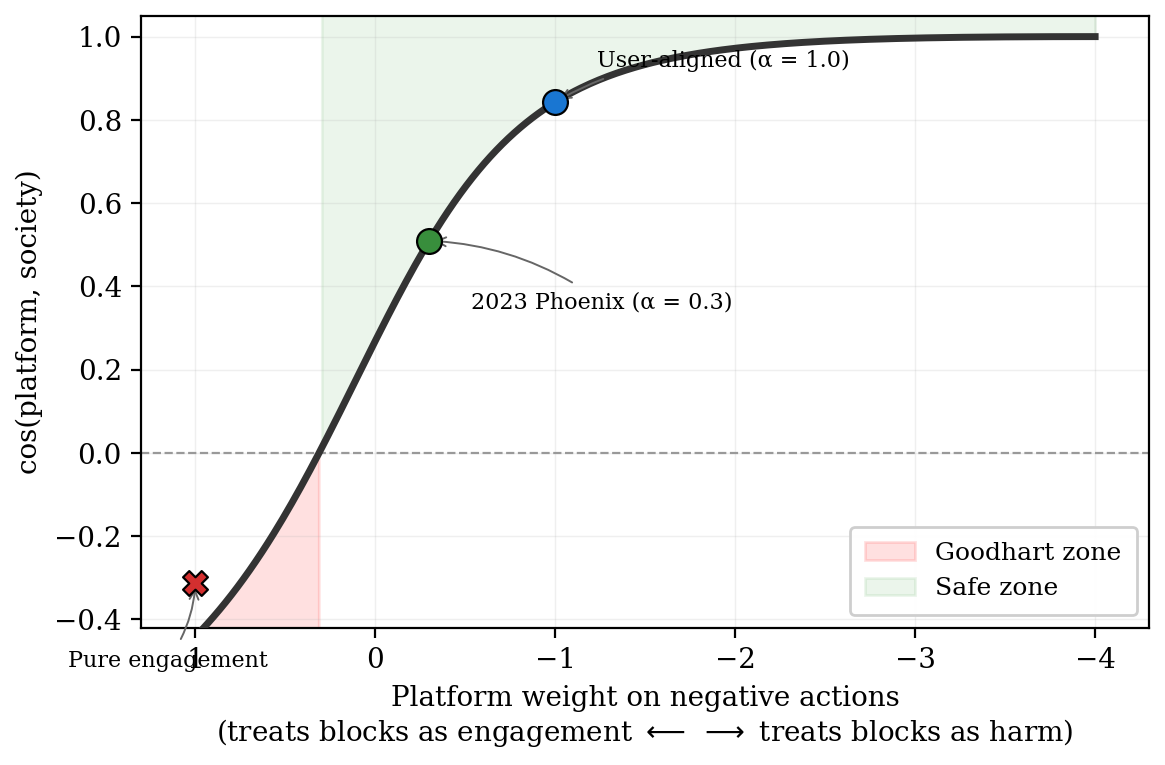
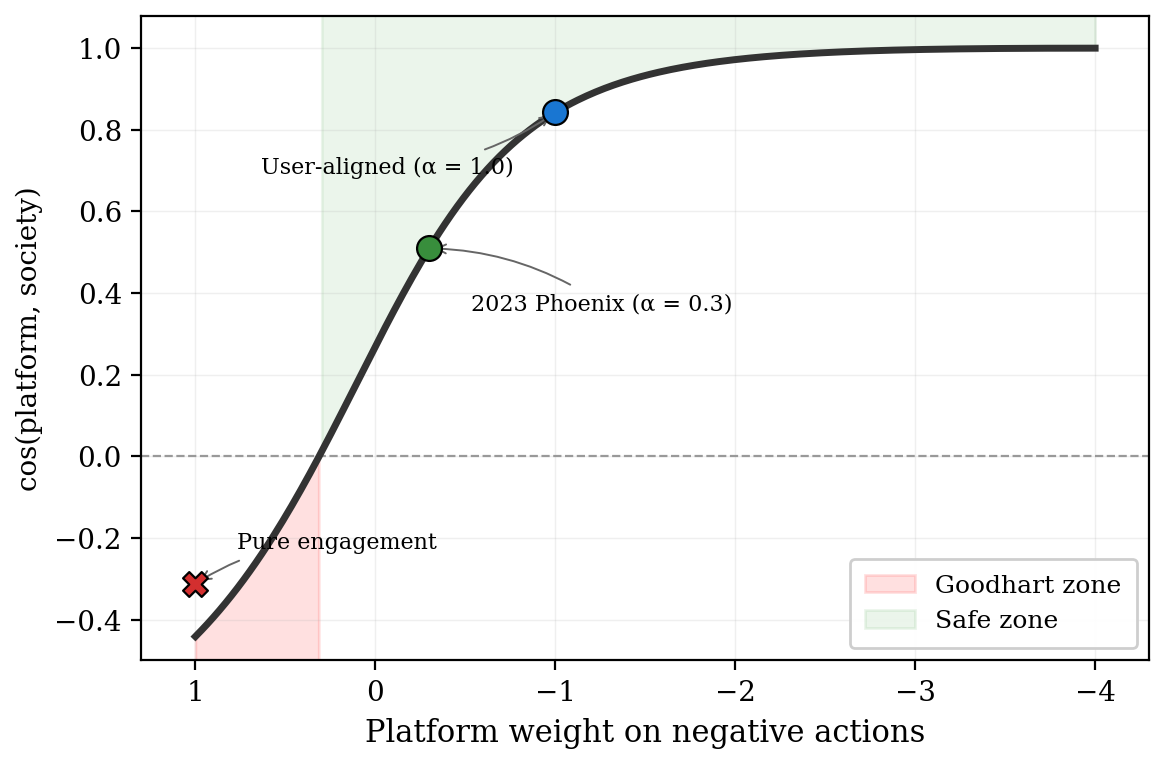
fix(fig4): reposition all annotations, clean x-axis label

diff --git a/scripts/visualization/generate_paper_figures.py b/scripts/visualization/generate_paper_figures.py
@@ -227,11 +227,11 @@ def fig4_audit_threshold():
     # Scenario points — positioned to avoid overlap
     scenarios = [
         (np.ones(D), 1.0, "Pure engagement", C_DIV, "X",
-         (-10, -28), "center"),
-        (make_w(-0.3), -0.3, "2023 Phoenix (α = 0.3)", C_PLAT, "o",
-         (15, -22), "left"),
-        (make_w(-1.0), -1.0, "User-aligned (α = 1.0)", C_USER, "o",
          (15, 15), "left"),
+        (make_w(-0.3), -0.3, "2023 Phoenix (α = 0.3)", C_PLAT, "o",
+         (15, -20), "left"),
+        (make_w(-1.0), -1.0, "User-aligned (α = 1.0)", C_USER, "o",
+         (-15, -20), "right"),
     ]
 
     for w_p, x_pos, label, color, marker, offset, ha in scenarios:
@@ -244,12 +244,10 @@ def fig4_audit_threshold():
                     arrowprops=dict(arrowstyle="->", color="#666666",
                                     lw=0.7, connectionstyle="arc3,rad=0.15"))
 
-    ax.set_xlabel("Platform weight on negative actions\n"
-                  r"(treats blocks as engagement $\longleftarrow$ $\longrightarrow$ treats blocks as harm)",
-                  fontsize=10)
+    ax.set_xlabel("Platform weight on negative actions")
     ax.set_ylabel("cos(platform, society)", fontsize=10)
     ax.set_xlim(1.3, -4.3)
-    ax.set_ylim(-0.42, 1.05)
+    ax.set_ylim(-0.5, 1.08)
     ax.legend(loc="lower right", fontsize=9, framealpha=0.95,
               edgecolor="#CCCCCC", borderpad=0.6)
     ax.grid(True, alpha=0.2, linewidth=0.5)
